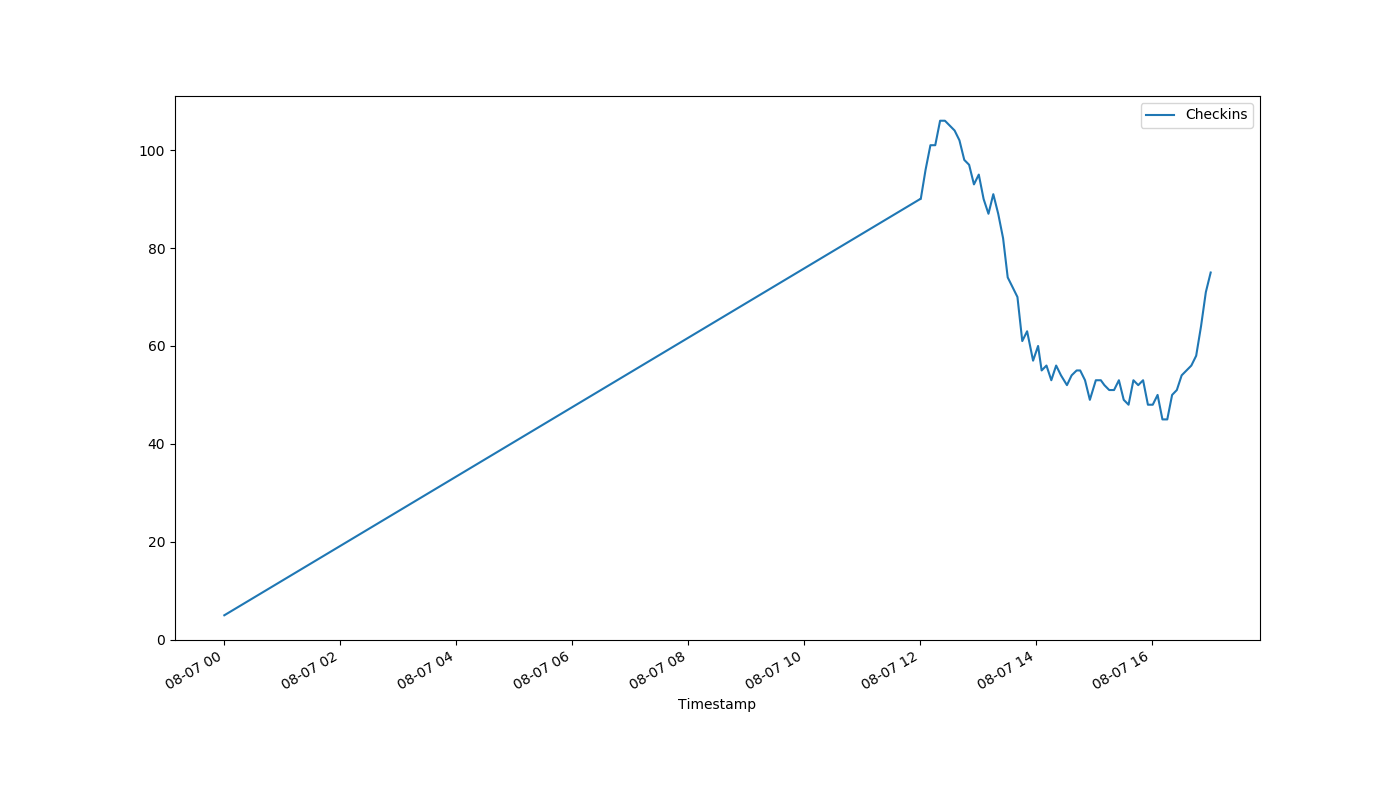
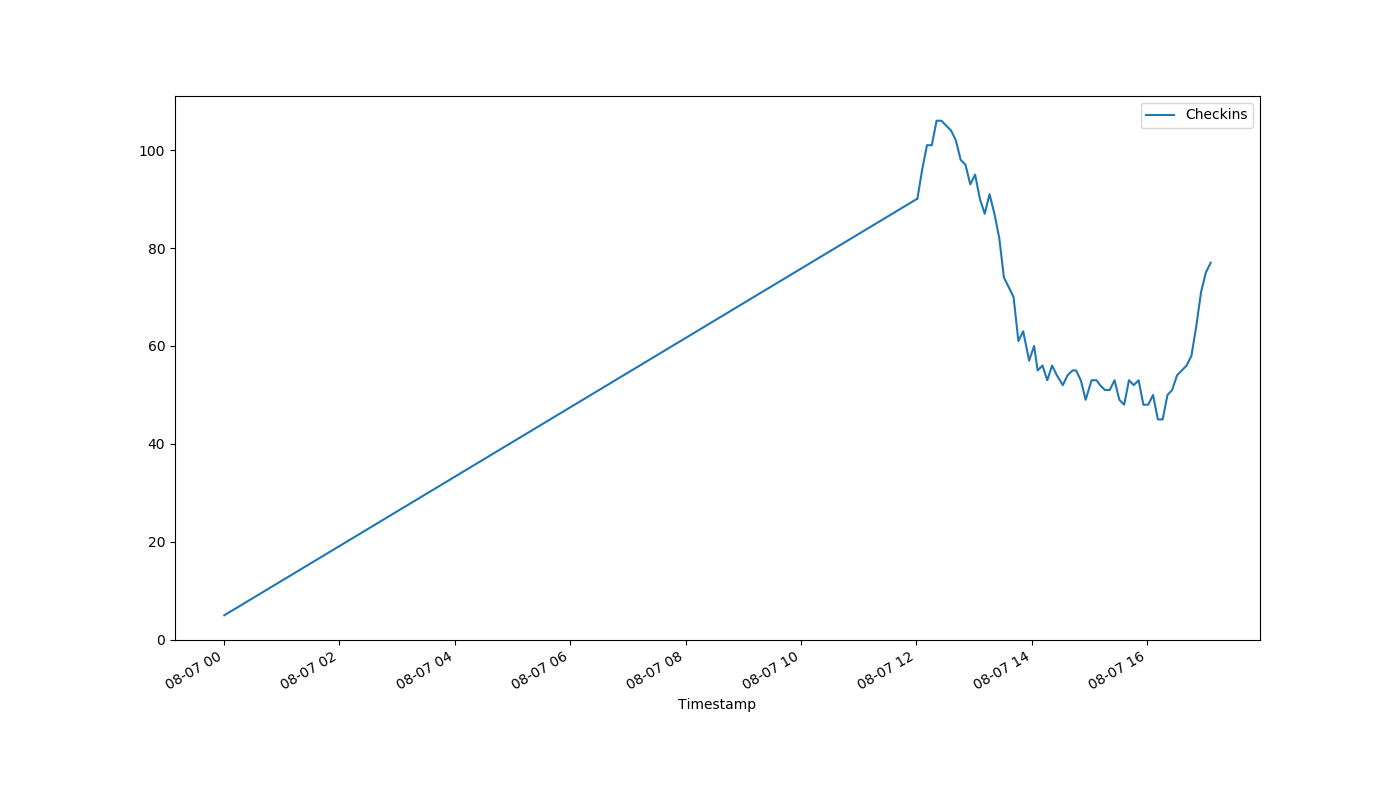
auto-Aug-07-17:07:36

diff --git a/index.html b/index.html
@@ -1,1 +1,1 @@
-<!DOCTYPE html><html><head><meta http-equiv="refresh" content="30"><link rel='stylesheet' href='holmcurrent.css'></head><body><p id='count'>75</p><div id='graph-wrap'><img id='graph' src='holmgraph-Aug-07.png'></div><p id='updated'>Last updated 17:02:01 / 17:01:05</p></body></html>
+<!DOCTYPE html><html><head><meta http-equiv="refresh" content="30"><link rel='stylesheet' href='holmcurrent.css'></head><body><p id='count'>77</p><div id='graph-wrap'><img id='graph' src='holmgraph-Aug-07.png'></div><p id='updated'>Last updated 17:07:01 / 17:06:05</p></body></html>
